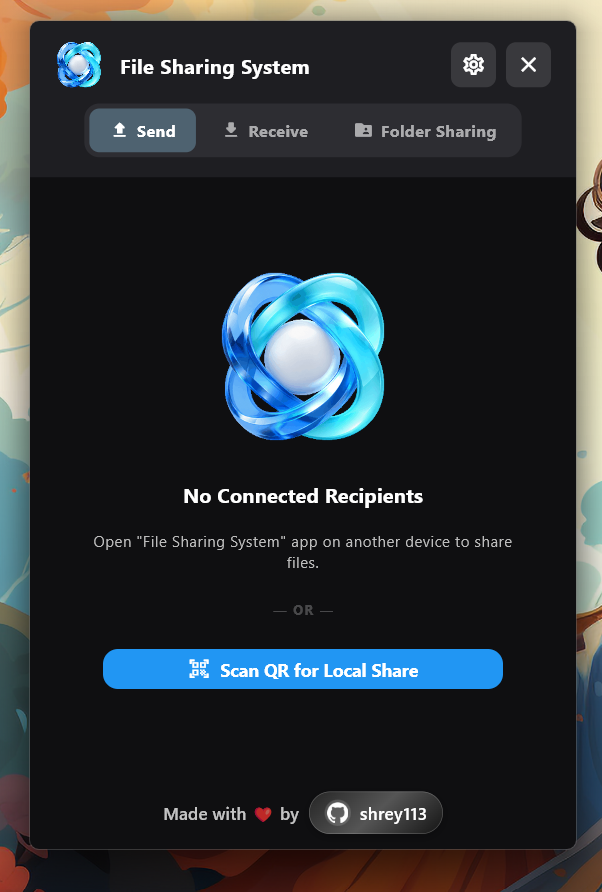
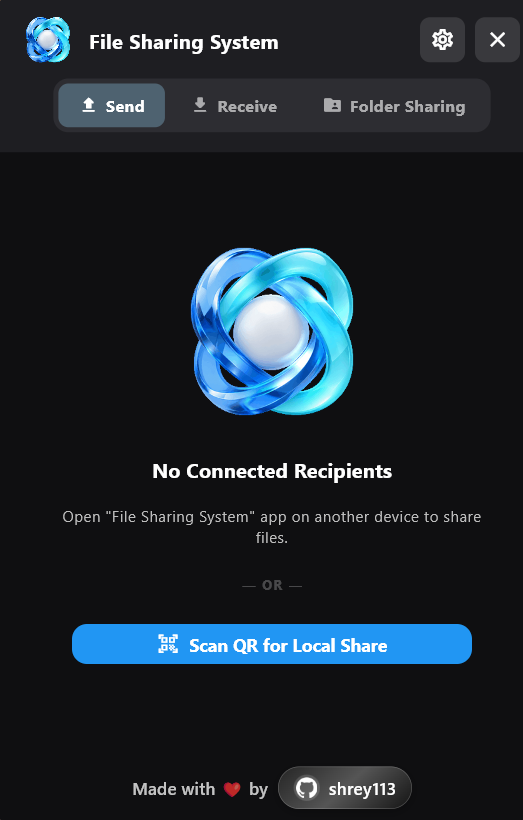
Refactor code structure for improved readability and maintainability

diff --git a/README.md b/README.md
@@ -37,22 +37,56 @@ The system enables users to transfer files, synchronize clipboard content, and e
 
 Built around direct network communication, the platform takes advantage of available LAN and wireless connectivity to deliver efficient data transmission while keeping communication within the local network environment.
 
-Its architecture combines automatic device discovery, optimized socket-based communication, selective transfer approval, and browser-based access into a unified file-sharing experience.
+
+
+<h2 align="center">DOWNLOAD</h2>
+
+<div align="center">
+
+<table width="100%">
+  <tr>
+    <td width="35%"><strong>Windows</strong></td>
+    <td align="right">
+      <a href="https://github.com/Shrey113/file-sharing-system/releases/latest/download/FileSharingSystem_Windows.zip">Download</a>
+    </td>
+  </tr>
+  <tr>
+    <td><strong>Linux</strong></td>
+    <td align="right">
+      <a href="https://github.com/Shrey113/file-sharing-system/releases/latest/download/FileSharingSystem_Linux.zip">Download</a>
+    </td>
+  </tr>
+  <tr>
+    <td><strong>macOS</strong></td>
+    <td align="right">
+      <a href="https://github.com/Shrey113/file-sharing-system/releases/latest/download/FileSharingSystem_macOS.zip">Download</a>
+    </td>
+  </tr>
+  <tr>
+    <td><strong>Android</strong></td>
+    <td align="right">
+      <a href="https://github.com/Shrey113/file-sharing-system/releases/latest/download/FileSharingSystem_Android.apk">Download</a>
+    </td>
+  </tr>
+</table>
+
+</div>
+
 
 
 ## APP preview
 
-| ![App List](./data/flutter_main.png) | ![Multiple Apps](Data/multiple_apps_running.png) |
+| ![App List](./data/flutter_main.png) | ![Multiple Apps](./data/Folder_sharing.png) |
 |:---:|:---:|
-| **Desktop interface** | **Mobile interface** |
+| **Desktop Main interface** | **Folder sharing interface** |
 
-| ![Media Control](Data/media_control.png) | ![Controller 1](Data/controller_1.png) |
+| ![Media Control](./data/android_img_1.png) | ![Controller 1](./data/android_img_2.png) |
 |:---:|:---:|
-| **Media Center** | **Android Control** |
+| **Android Home page** | **Android view** |
 
-| ![Controller 2](Data/controller_2.png) | ![Controller 3](Data/controller_3.png) |
+| ![Controller 2](./data/web_1.png) | ![Controller 3](./data/web_1.png) |
 |:---:|:---:|
-| **Audio Overlay** | **Media Preferences** |
+| **Web 1** | **Web 2** |
 
 
 ## Core Capabilities
